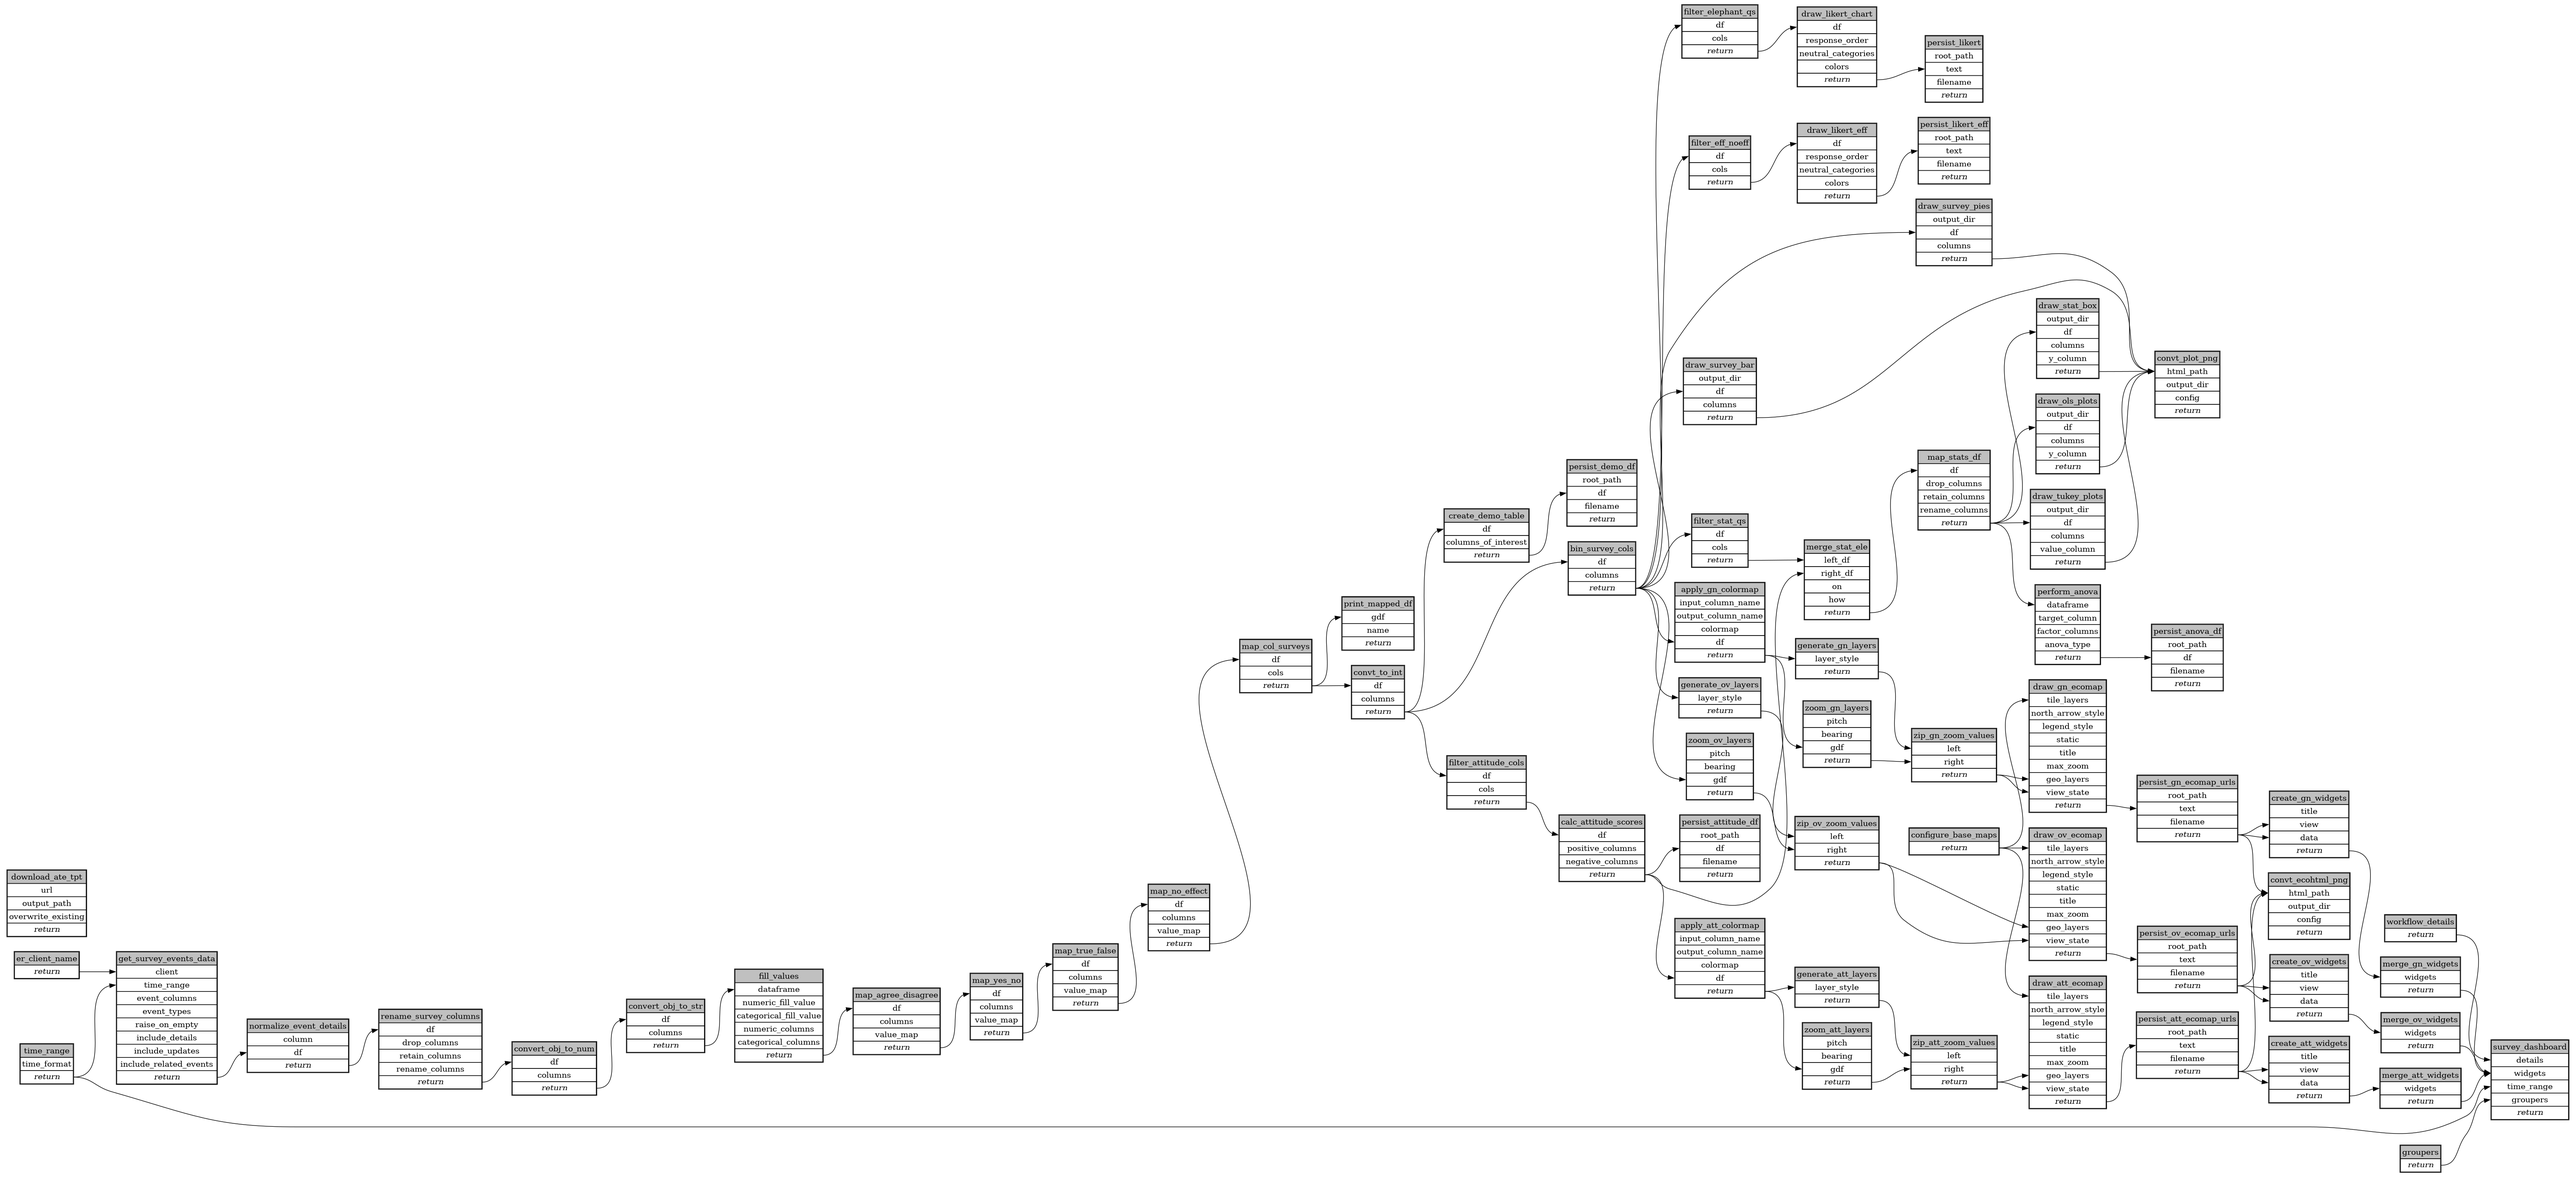
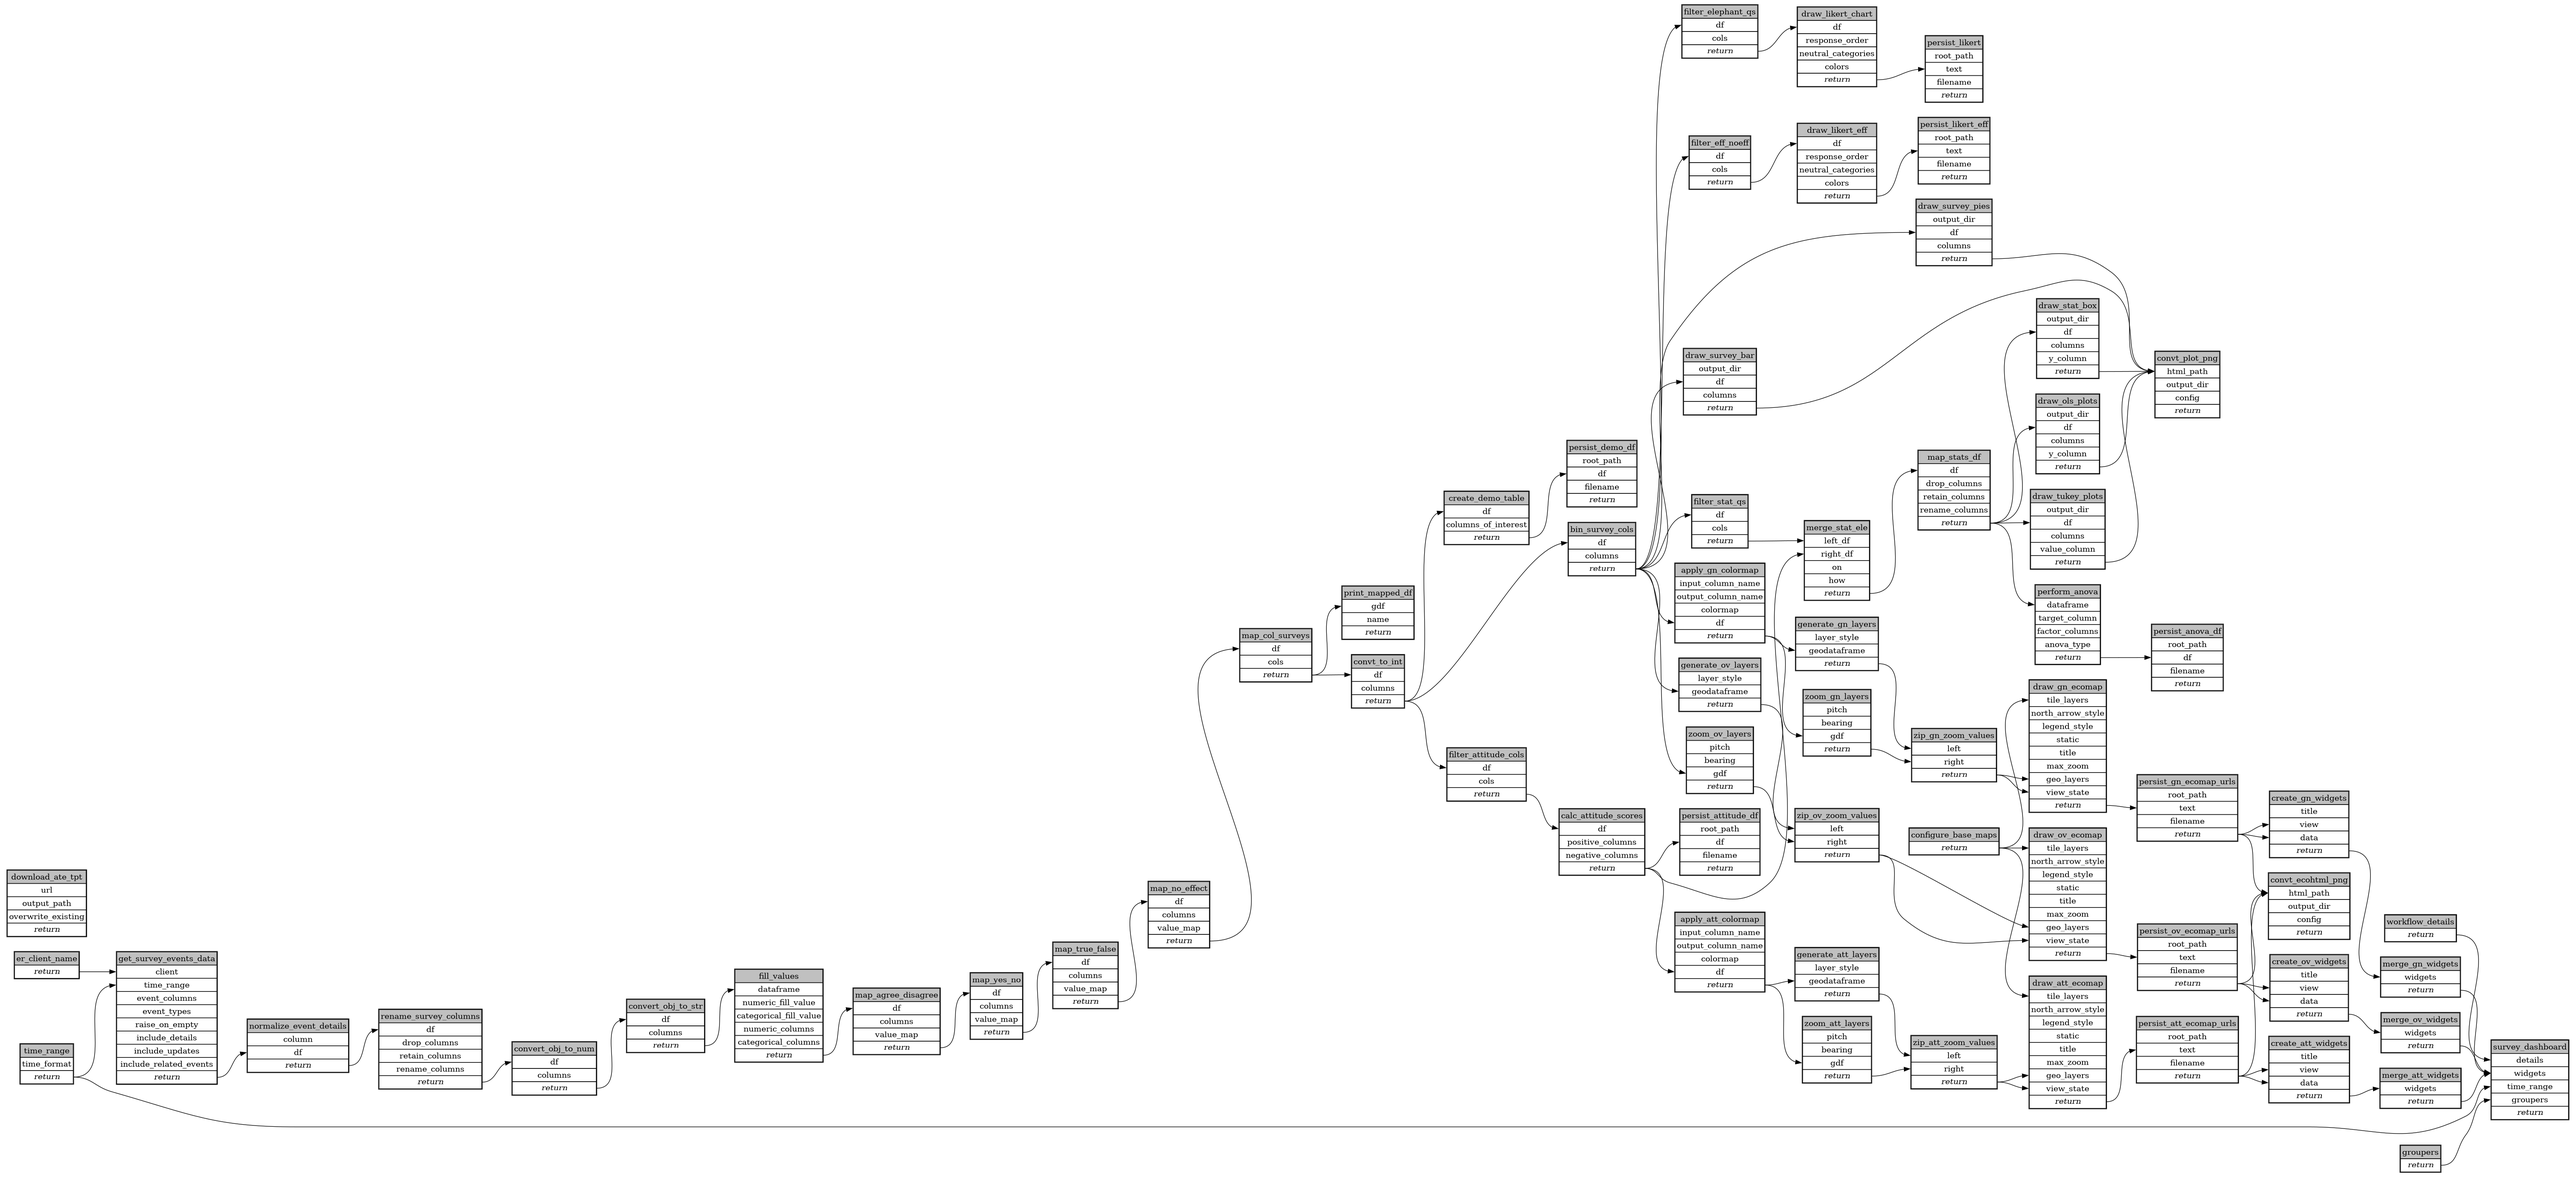
include geolayers arg correctly on all point_layers spec

diff --git a/workflows/ate_survey/ecoscope-workflows-ate-survey-workflow/ecoscope_workflows_ate_survey_workflow/dags/jupytext.py b/workflows/ate_survey/ecoscope-workflows-ate-survey-workflow/ecoscope_workflows_ate_survey_workflow/dags/jupytext.py
@@ -1592,7 +1592,6 @@ apply_att_colormap = (
 # parameters
 
 generate_att_layers_params = dict(
-    geodataframe=...,
     legend=...,
     tooltip_columns=...,
     zoom=...,
@@ -1623,8 +1622,8 @@ generate_att_layers = (
                 "attitude_colors",
                 "elephant_sentiment_score",
             ],
-            "geodataframe": apply_att_colormap,
         },
+        geodataframe=apply_att_colormap,
         **generate_att_layers_params,
     )
     .call()
@@ -1802,7 +1801,6 @@ apply_gn_colormap = (
 # parameters
 
 generate_gn_layers_params = dict(
-    geodataframe=...,
     legend=...,
     tooltip_columns=...,
     zoom=...,
@@ -1829,8 +1827,8 @@ generate_gn_layers = (
                 "color_column": "gender_colors",
             },
             "tooltip_columns": ["Participant gender", "gender_colors"],
-            "geodataframe": apply_gn_colormap,
         },
+        geodataframe=apply_gn_colormap,
         **generate_gn_layers_params,
     )
     .call()
@@ -1981,7 +1979,6 @@ merge_gn_widgets = (
 # parameters
 
 generate_ov_layers_params = dict(
-    geodataframe=...,
     legend=...,
     tooltip_columns=...,
     zoom=...,
@@ -2004,8 +2001,8 @@ generate_ov_layers = (
         layer_style={
             "get_fill_color": "#C70039",
             "legend": {"labels": ["Survey locations"], "colors": ["#C70039"]},
-            "geodataframe": bin_survey_cols,
         },
+        geodataframe=bin_survey_cols,
         **generate_ov_layers_params,
     )
     .call()

diff --git a/workflows/ate_survey/ecoscope-workflows-ate-survey-workflow/ecoscope_workflows_ate_survey_workflow/dags/run_async.py b/workflows/ate_survey/ecoscope-workflows-ate-survey-workflow/ecoscope_workflows_ate_survey_workflow/dags/run_async.py
@@ -1127,8 +1127,8 @@ def main(params: Params):
                         "attitude_colors",
                         "elephant_sentiment_score",
                     ],
-                    "geodataframe": DependsOn("apply_att_colormap"),
                 },
+                "geodataframe": DependsOn("apply_att_colormap"),
             }
             | (params_dict.get("generate_att_layers") or {}),
             method="call",
@@ -1252,8 +1252,8 @@ def main(params: Params):
                         "color_column": "gender_colors",
                     },
                     "tooltip_columns": ["Participant gender", "gender_colors"],
-                    "geodataframe": DependsOn("apply_gn_colormap"),
                 },
+                "geodataframe": DependsOn("apply_gn_colormap"),
             }
             | (params_dict.get("generate_gn_layers") or {}),
             method="call",
@@ -1360,8 +1360,8 @@ def main(params: Params):
                 "layer_style": {
                     "get_fill_color": "#C70039",
                     "legend": {"labels": ["Survey locations"], "colors": ["#C70039"]},
-                    "geodataframe": DependsOn("bin_survey_cols"),
                 },
+                "geodataframe": DependsOn("bin_survey_cols"),
             }
             | (params_dict.get("generate_ov_layers") or {}),
             method="call",

diff --git a/workflows/ate_survey/ecoscope-workflows-ate-survey-workflow/ecoscope_workflows_ate_survey_workflow/dags/run_async_mock_io.py b/workflows/ate_survey/ecoscope-workflows-ate-survey-workflow/ecoscope_workflows_ate_survey_workflow/dags/run_async_mock_io.py
@@ -1145,8 +1145,8 @@ def main(params: Params):
                         "attitude_colors",
                         "elephant_sentiment_score",
                     ],
-                    "geodataframe": DependsOn("apply_att_colormap"),
                 },
+                "geodataframe": DependsOn("apply_att_colormap"),
             }
             | (params_dict.get("generate_att_layers") or {}),
             method="call",
@@ -1270,8 +1270,8 @@ def main(params: Params):
                         "color_column": "gender_colors",
                     },
                     "tooltip_columns": ["Participant gender", "gender_colors"],
-                    "geodataframe": DependsOn("apply_gn_colormap"),
                 },
+                "geodataframe": DependsOn("apply_gn_colormap"),
             }
             | (params_dict.get("generate_gn_layers") or {}),
             method="call",
@@ -1378,8 +1378,8 @@ def main(params: Params):
                 "layer_style": {
                     "get_fill_color": "#C70039",
                     "legend": {"labels": ["Survey locations"], "colors": ["#C70039"]},
-                    "geodataframe": DependsOn("bin_survey_cols"),
                 },
+                "geodataframe": DependsOn("bin_survey_cols"),
             }
             | (params_dict.get("generate_ov_layers") or {}),
             method="call",

diff --git a/workflows/ate_survey/ecoscope-workflows-ate-survey-workflow/ecoscope_workflows_ate_survey_workflow/dags/run_sequential.py b/workflows/ate_survey/ecoscope-workflows-ate-survey-workflow/ecoscope_workflows_ate_survey_workflow/dags/run_sequential.py
@@ -1032,8 +1032,8 @@ def main(params: Params):
                     "attitude_colors",
                     "elephant_sentiment_score",
                 ],
-                "geodataframe": apply_att_colormap,
             },
+            geodataframe=apply_att_colormap,
             **(params_dict.get("generate_att_layers") or {}),
         )
         .call()
@@ -1144,8 +1144,8 @@ def main(params: Params):
                     "color_column": "gender_colors",
                 },
                 "tooltip_columns": ["Participant gender", "gender_colors"],
-                "geodataframe": apply_gn_colormap,
             },
+            geodataframe=apply_gn_colormap,
             **(params_dict.get("generate_gn_layers") or {}),
         )
         .call()
@@ -1237,8 +1237,8 @@ def main(params: Params):
             layer_style={
                 "get_fill_color": "#C70039",
                 "legend": {"labels": ["Survey locations"], "colors": ["#C70039"]},
-                "geodataframe": bin_survey_cols,
             },
+            geodataframe=bin_survey_cols,
             **(params_dict.get("generate_ov_layers") or {}),
         )
         .call()

diff --git a/workflows/ate_survey/ecoscope-workflows-ate-survey-workflow/ecoscope_workflows_ate_survey_workflow/dags/run_sequential_mock_io.py b/workflows/ate_survey/ecoscope-workflows-ate-survey-workflow/ecoscope_workflows_ate_survey_workflow/dags/run_sequential_mock_io.py
@@ -1050,8 +1050,8 @@ def main(params: Params):
                     "attitude_colors",
                     "elephant_sentiment_score",
                 ],
-                "geodataframe": apply_att_colormap,
             },
+            geodataframe=apply_att_colormap,
             **(params_dict.get("generate_att_layers") or {}),
         )
         .call()
@@ -1162,8 +1162,8 @@ def main(params: Params):
                     "color_column": "gender_colors",
                 },
                 "tooltip_columns": ["Participant gender", "gender_colors"],
-                "geodataframe": apply_gn_colormap,
             },
+            geodataframe=apply_gn_colormap,
             **(params_dict.get("generate_gn_layers") or {}),
         )
         .call()
@@ -1255,8 +1255,8 @@ def main(params: Params):
             layer_style={
                 "get_fill_color": "#C70039",
                 "legend": {"labels": ["Survey locations"], "colors": ["#C70039"]},
-                "geodataframe": bin_survey_cols,
             },
+            geodataframe=bin_survey_cols,
             **(params_dict.get("generate_ov_layers") or {}),
         )
         .call()

diff --git a/workflows/ate_survey/ecoscope-workflows-ate-survey-workflow/README.md b/workflows/ate_survey/ecoscope-workflows-ate-survey-workflow/README.md
@@ -5,17 +5,17 @@
 
 ```yaml
 # fingerprint:
-artifacts_sha256_basic: adbeb38f17e69ca67dd5644bc71ed31703808c03a97262618eb455d452508fb8
-artifacts_sha256_strict: b04f5b810dc238f522b345ee5c4b07df15878a10d776fa17e6d825e760ffdf41
+artifacts_sha256_basic: 851406c83cae6f6568fe7ebcef0e8605475abb57ac221bec88c613e40fc96e62
+artifacts_sha256_strict: 23bd13bbf21e3f6e47e60bb0a4abf5f1c0d1fef0b33b9d7f9aae9fdc67fc3d60
 installed_requirements:
 - channel: https://repo.prefix.dev/ecoscope-workflows/
   name: ecoscope-workflows-core
   version: {version: ==0.14.0}
 - channel: file:///tmp/ecoscope-workflows-custom/release/artifacts/
   name: ecoscope-workflows-ext-ate
-  version: {version: ==10000.dev16+g6477220eb.d20251027}
-params_sha256: 737da984f290eba00423593d281490495bb5b0fa539d95844783df40c8709606
-spec_sha256: f8d8627ff42169768d3bafc0193793b33346530949bff09684538809c6d34077
+  version: {version: ==10000.dev17+gbcf94cf97.d20251027}
+params_sha256: 902c88b5b11fbedaf4457b099283a7f44fae9c6a1d285efacb1c8902972faa2e
+spec_sha256: 2c8ebac2b87221fce358c3619fb12f219472346de8f5e31c8a878d4a2a9f4f91
 
 ```
 
